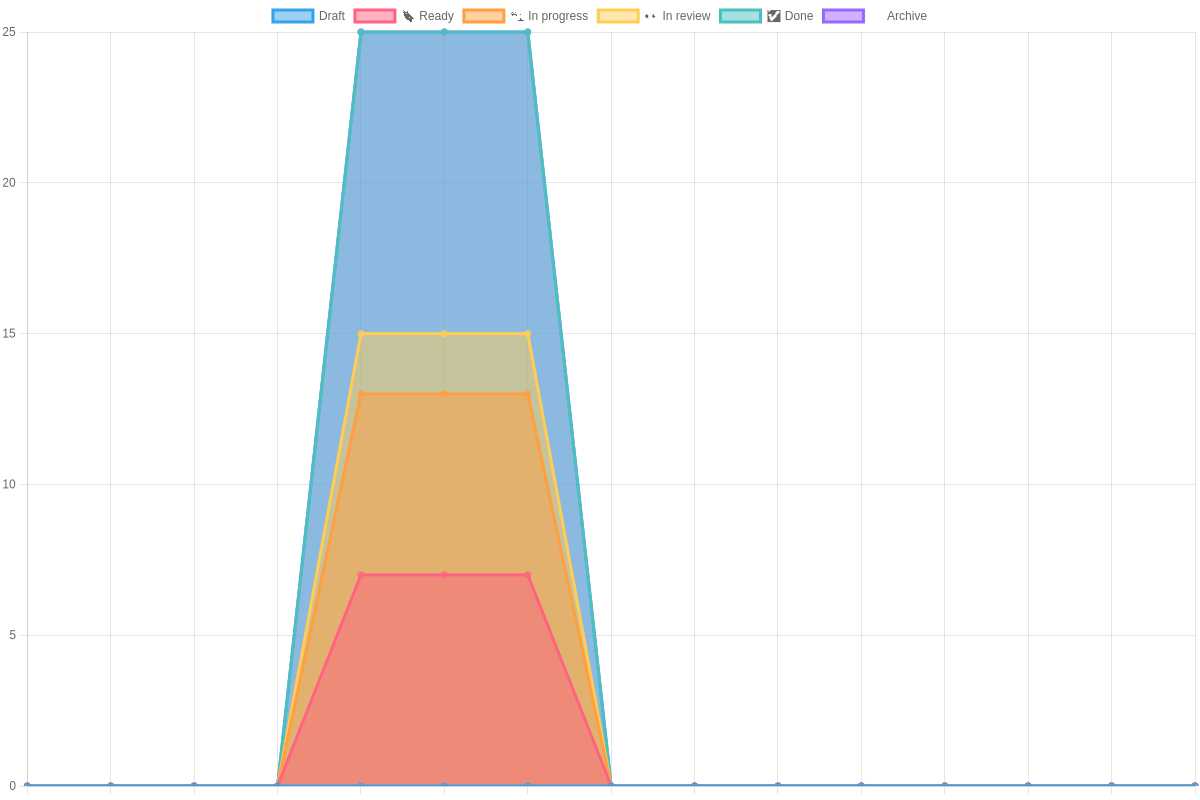
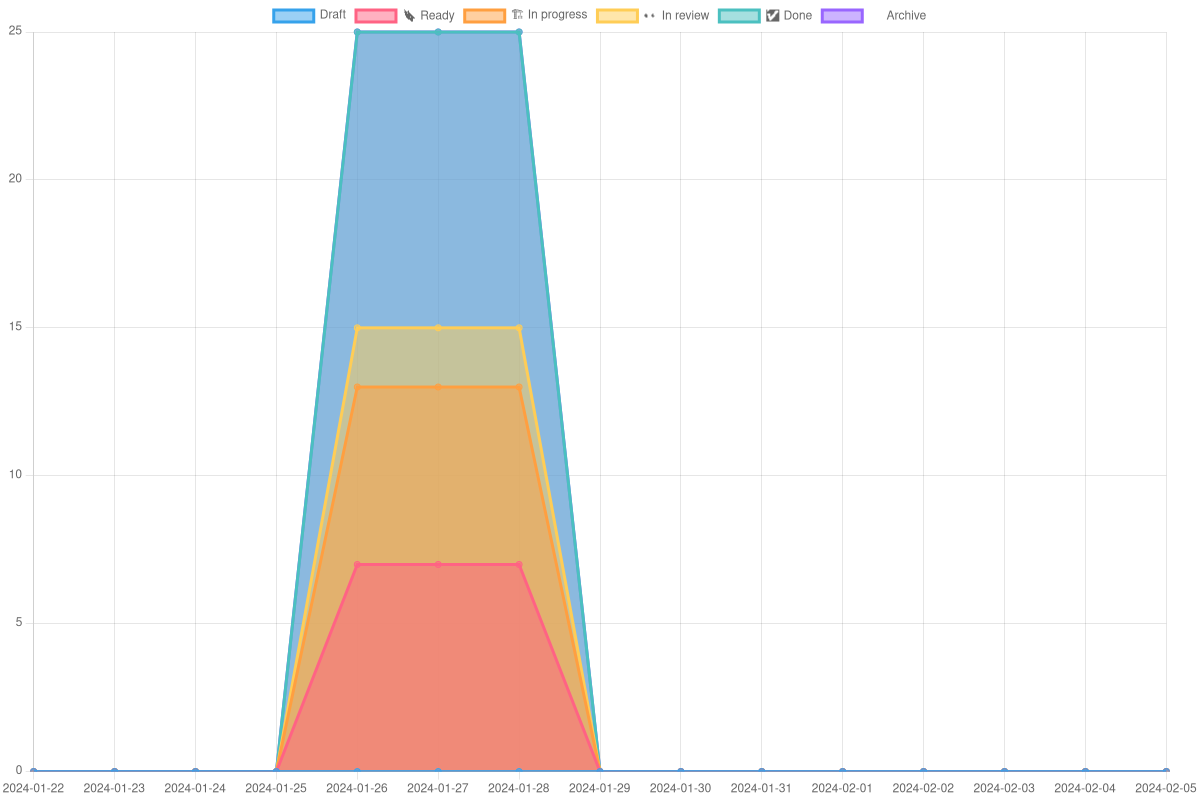
Fix labels

diff --git a/src/burn.ts b/src/burn.ts
@@ -17,12 +17,13 @@ export const updateBurnDown = async (runId: string, stati: Field[], iteration: I
     }
     for (let i = 0; i <= iteration.duration; i++) {
       const label = asDate(iteration.startDate, i).toISOString().slice(0, 10)
-      labels.push(labels)
+      labels.push(label)
       const loadedData: GraphDataset[] = readJsonFile(`stats/${name}/burn_down_data/`, `${team}_${label}`)
       coreBurnDatasets.forEach((dataset, index) => {
         dataset.data.push(loadedData?.at(index)?.data?.at(0) ?? 0)
       })
     }
+    console.log(labels)
     await render(labels, coreBurnDatasets, {
       type: "line",
       path: `stats/${name}/`,
